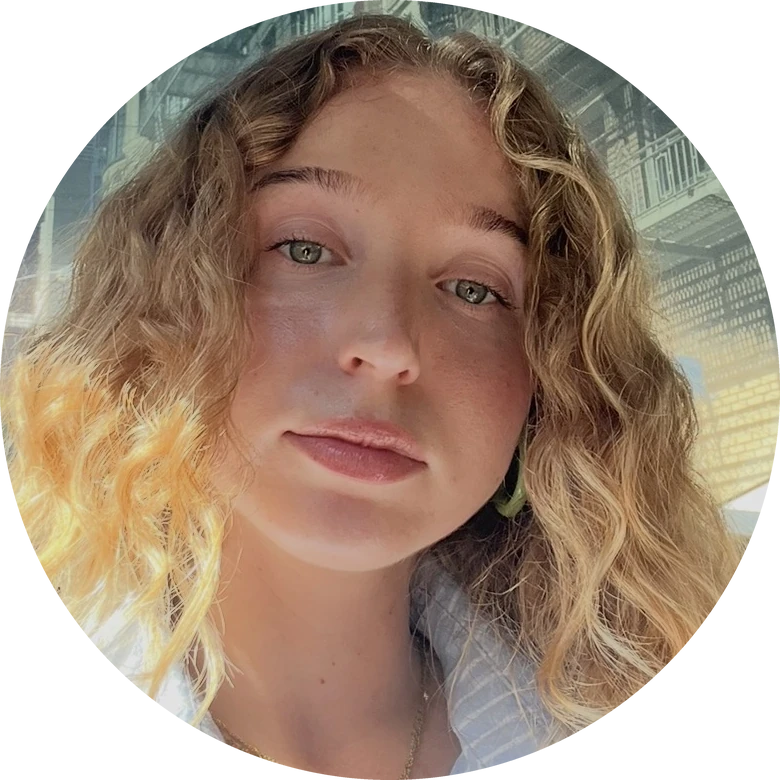
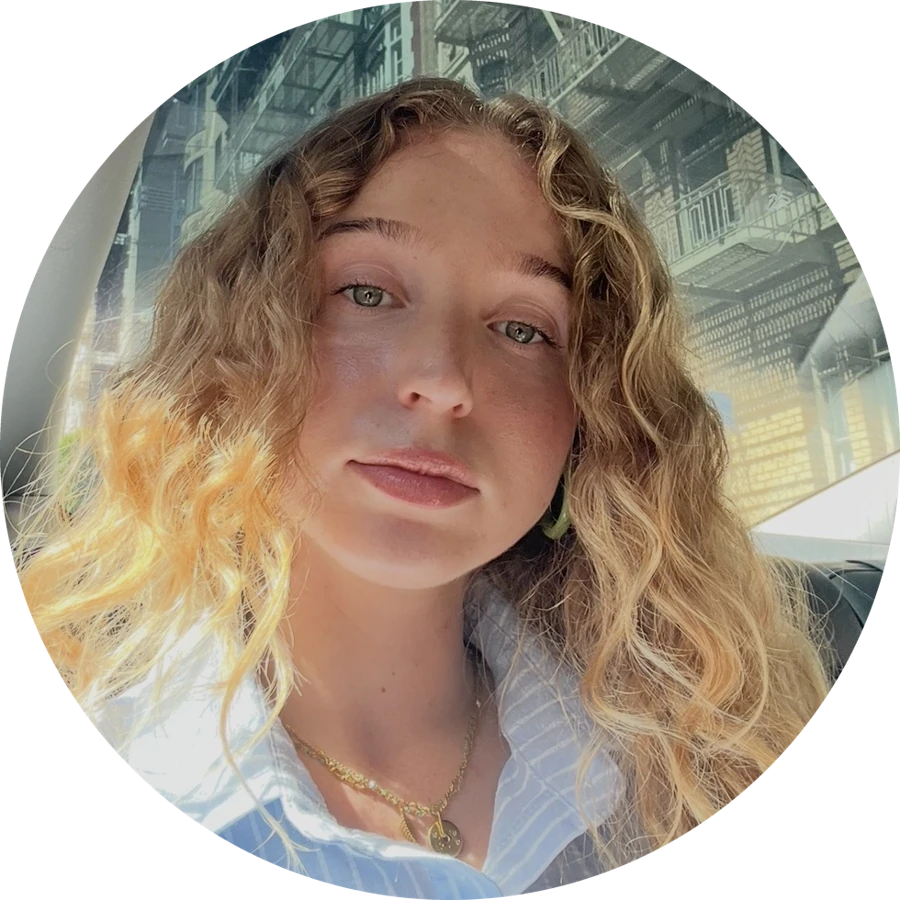
About portrait: wider crop (Ariana's pick) and set a little lower on desktop
Claude-Session: https://claude.ai/code/session_01J7BxnsaS5aH1k8wmhC6JdP

diff --git a/public/index.html b/public/index.html
@@ -177,7 +177,7 @@ body[data-route^=p][data-tab=projects]:not([data-route=projects]) #rail{display:
 .gal{display:grid;gap:10px;margin:0}.gal.c2{grid-template-columns:repeat(2,minmax(0,1fr))}.gal.c3{grid-template-columns:repeat(3,minmax(0,1fr))}
 .gal img{width:100%;height:100%;object-fit:cover;border-radius:8px;background:var(--glass2)}.gal.c1 img{object-fit:contain;max-height:78vh}
 .feature.pf{border:0;background:none;padding:0;display:block;aspect-ratio:auto!important;height:auto!important;max-height:none!important;overflow:visible}.feature.pf img{display:block;width:100%;height:auto;filter:drop-shadow(0 0 22px rgb(207 240 2/.12))}
-.feature.pf.rd{max-width:min(100%,360px);margin-inline:auto}.feature.pf.rd img{border-radius:50%;filter:none;box-shadow:0 0 0 1px rgb(207 240 2/.55),0 0 26px rgb(207 240 2/.18)}
+.feature.pf.rd{max-width:min(100%,360px);margin-inline:auto}@media (min-width:1024px){.abd-side .feature.pf.rd{margin-top:clamp(28px,9vh,96px)}}.feature.pf.rd img{border-radius:50%;filter:none;box-shadow:0 0 0 1px rgb(207 240 2/.55),0 0 26px rgb(207 240 2/.18)}
 .gal.fit{align-items:start}.gal.fit img{aspect-ratio:auto!important;height:auto!important;object-fit:contain}
 .gal figcaption,.vid figcaption{grid-column:1/-1;font:400 .72rem var(--f-mono);color:var(--soft)}
 

diff --git a/CLAUDE.md b/CLAUDE.md
@@ -11,7 +11,7 @@ Portfolio of Ariana Dorothea Levy. Static site served by a Cloudflare Worker (st
   - `mnav.js` — phone navigation (≤720px, live 11/4): faint `goto('<level>')` line under the name opens a code drop-down under it; thumb circle bottom right (slowly crossfades the 16 curated backgrounds, `img/lotbg/t/`, ~20 s each, 6 s fade) opens the levels fanned up above it. Both blur the page while open; the old bottom bar `#levels` is hidden on phones. Phone home shows the stair cascade of six project wireframes (`.mcasc`, in the home view).
   - Desktop nav (≥1024px, live 11/7): the phone's `goto('<level>')` line (mnav.js `.mgl`/`.mtop`) sits top left under the name; it opens `const levels = {…}` over a soft blur. The left level rail `#levels` is hidden on desktop except in cinematic mode; the Style button moved top right. 721–1023px is unchanged.
   - About, desktop (live 11/7, mockup B): `abDesk()` in index.html renders the page as one file pane, `about.md`, with a line-number gutter: lead, `// practice` `// roots` `// now` paragraphs, then `export { email, instagram, linkedin }`; side column holds the featured image and facts (mfa, ba, based, speaks). `cv.json` tab links to Background. `data.json` has `links` and `languages`; phones show both in the About slab.
-  - About portrait (live 11/7): `data.json` `portrait` (img/portrait.webp, a circle crop of Ariana's car photo) and `portraitRound: true` → `.feature.pf.rd`, circle with a thin chartreuse ring, max 360px; shown in the About side column (desktop) and above the slab (phone).
+  - About portrait (live 11/7): `data.json` `portrait` (img/portrait.webp, a wider circle crop of Ariana's car photo, chosen 11/7) and `portraitRound: true` → `.feature.pf.rd`, circle with a thin chartreuse ring, max 360px; shown in the About side column (desktop, nudged down ~9vh to balance the pane) and above the slab (phone).
   - Gallery blocks take `fit: true` to show images at their own proportions instead of square crops (used on 15).
   - `config.js` — Parking Lot store (Supabase project URL + public anon key).
   - `v/hq/*.mp4` — full-quality films (split parts play back to back).
